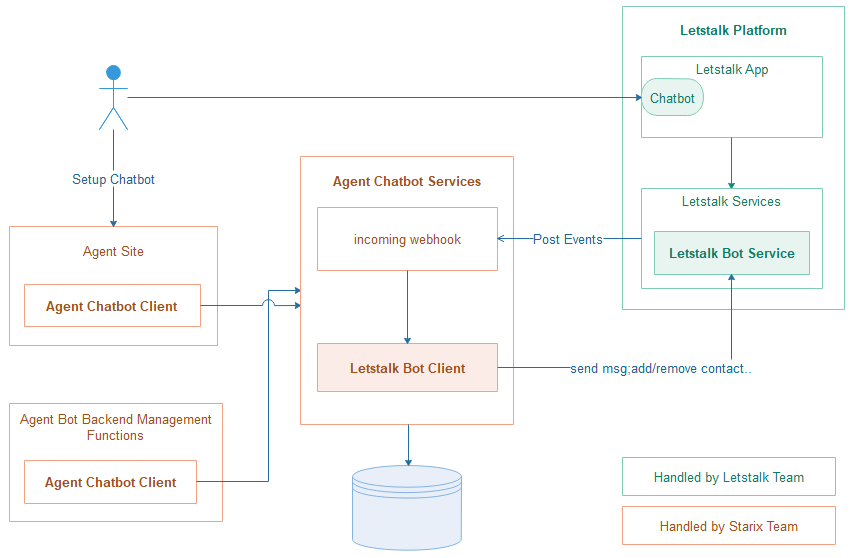
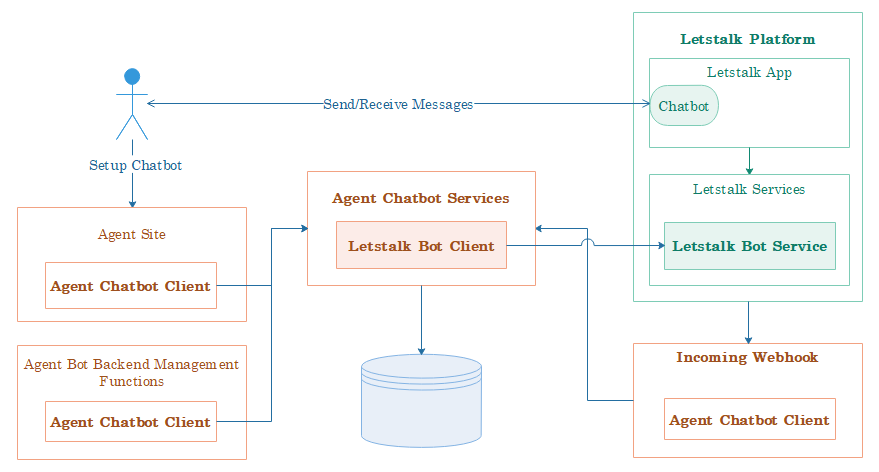
0000 add high level design

diff --git a/docs/index.rst b/docs/index.rst
@@ -5,13 +5,14 @@
 
 .. toctree::
    :glob:
-   :caption: Introduction
+   :caption: General Information
    :maxdepth: 2
    
    intro/purpose
    intro/scope
    intro/definition
-   intro/references        
+   intro/references
+   intro/changelog
 
 .. toctree::
    :caption: System Overview
@@ -22,7 +23,7 @@
    overview/conf
 
 .. toctree::
-   :caption: Services Design
+   :caption: Agent Bot Services
    :maxdepth: 2
 
    design/components
@@ -37,9 +38,3 @@
 
    webhook/introduction
    webhook/security
-
-.. toctree::
-   :caption: Document History
-   :maxdepth: 2
-   
-   history/changelog

diff --git a/docs/overview/uc.rst b/docs/overview/uc.rst
@@ -1,3 +1,11 @@
 *************
 Use cases
 *************
+
+Agent Site Integration
+=============================
+.. image:: images/UC_AlphaSite.jpg
+
+Letstalk Platform Integration
+=============================
+.. image:: images/UC_LetstalkApp.jpg

diff --git a/docs/overview/hld.rst b/docs/overview/hld.rst
@@ -2,5 +2,9 @@
 High Level of Design
 *********************
 
+
+
 .. image:: images/hld.png
-   
+
+
+.. image:: images/agent-bot-client.png

diff --git a/docs/intro/changelog.rst b/docs/intro/changelog.rst
@@ -1,5 +1,5 @@
 *********
-Changelog
+Revision
 *********
 
 master
